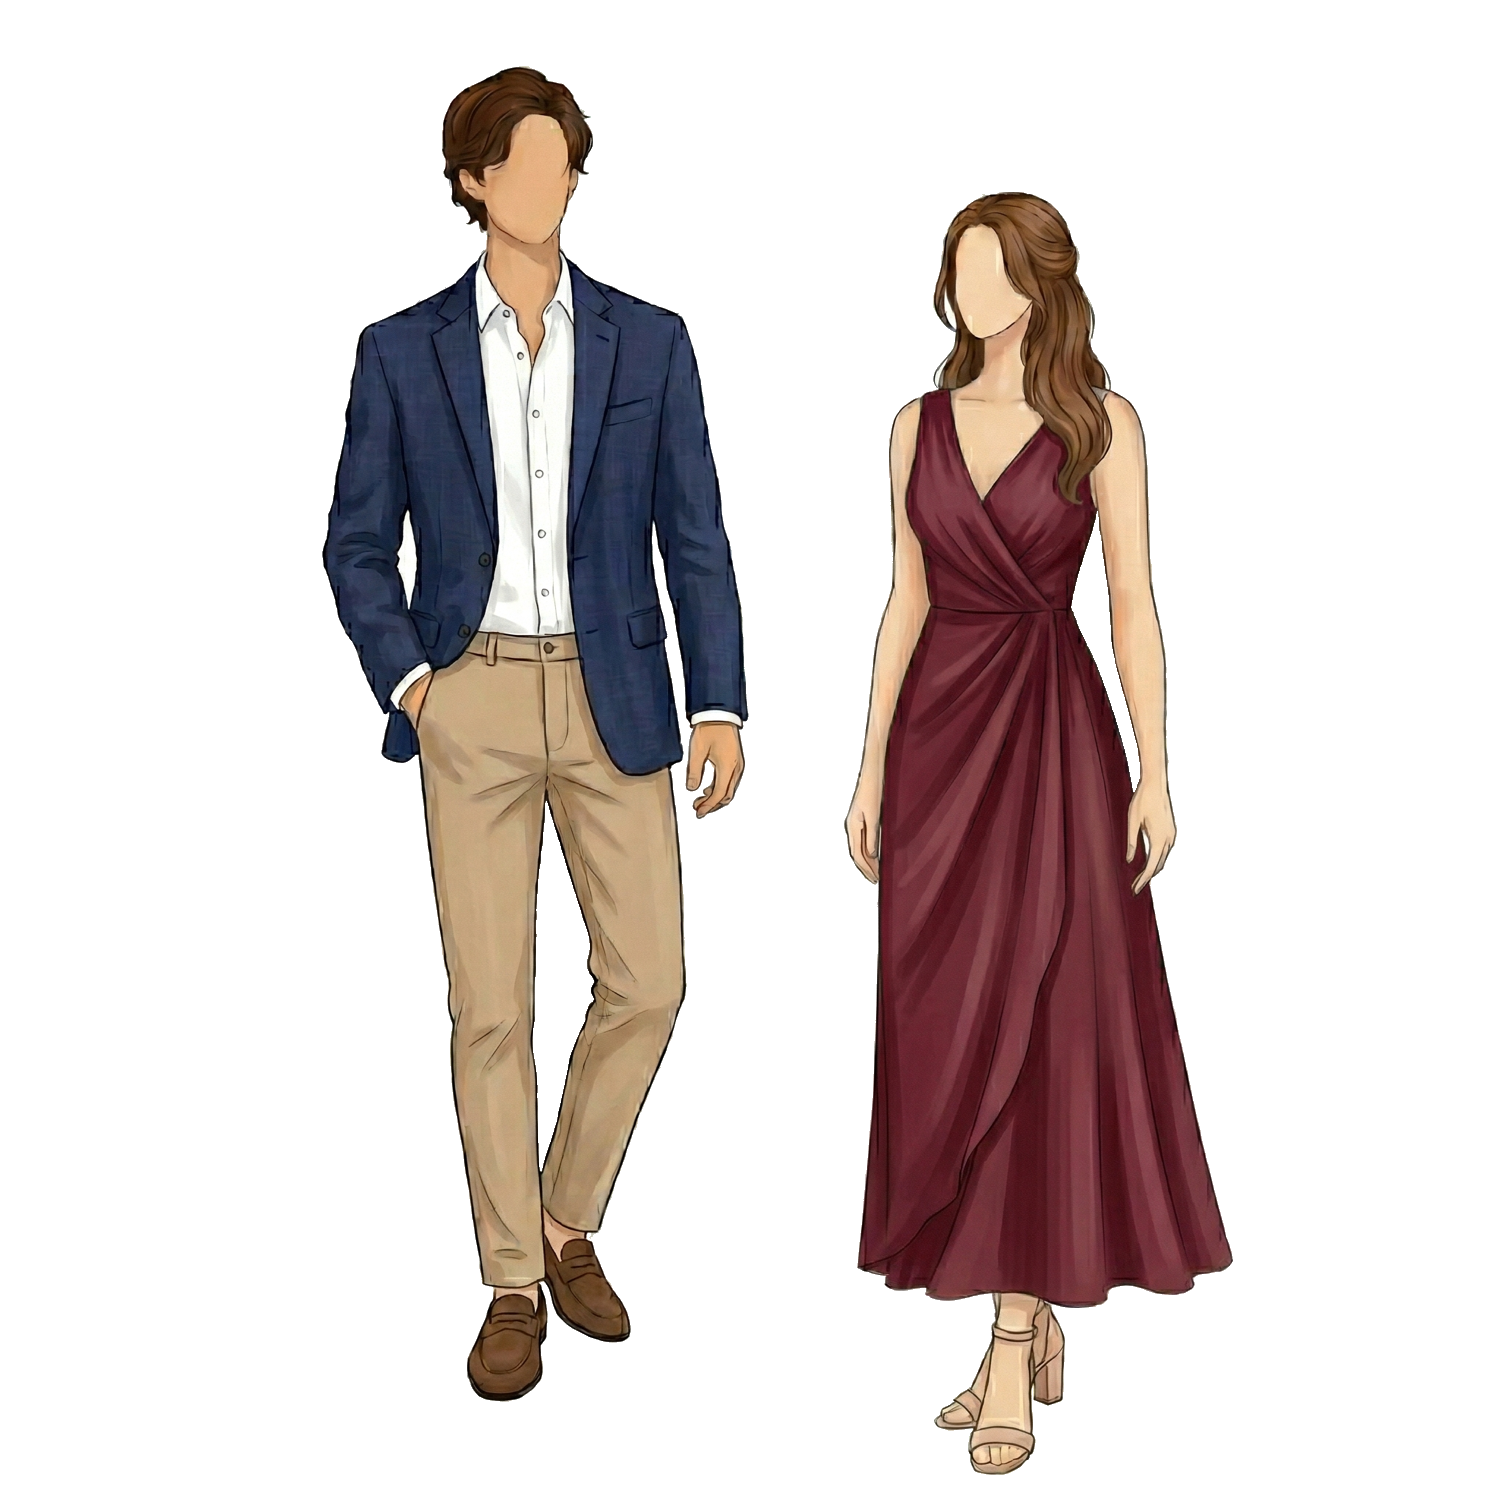
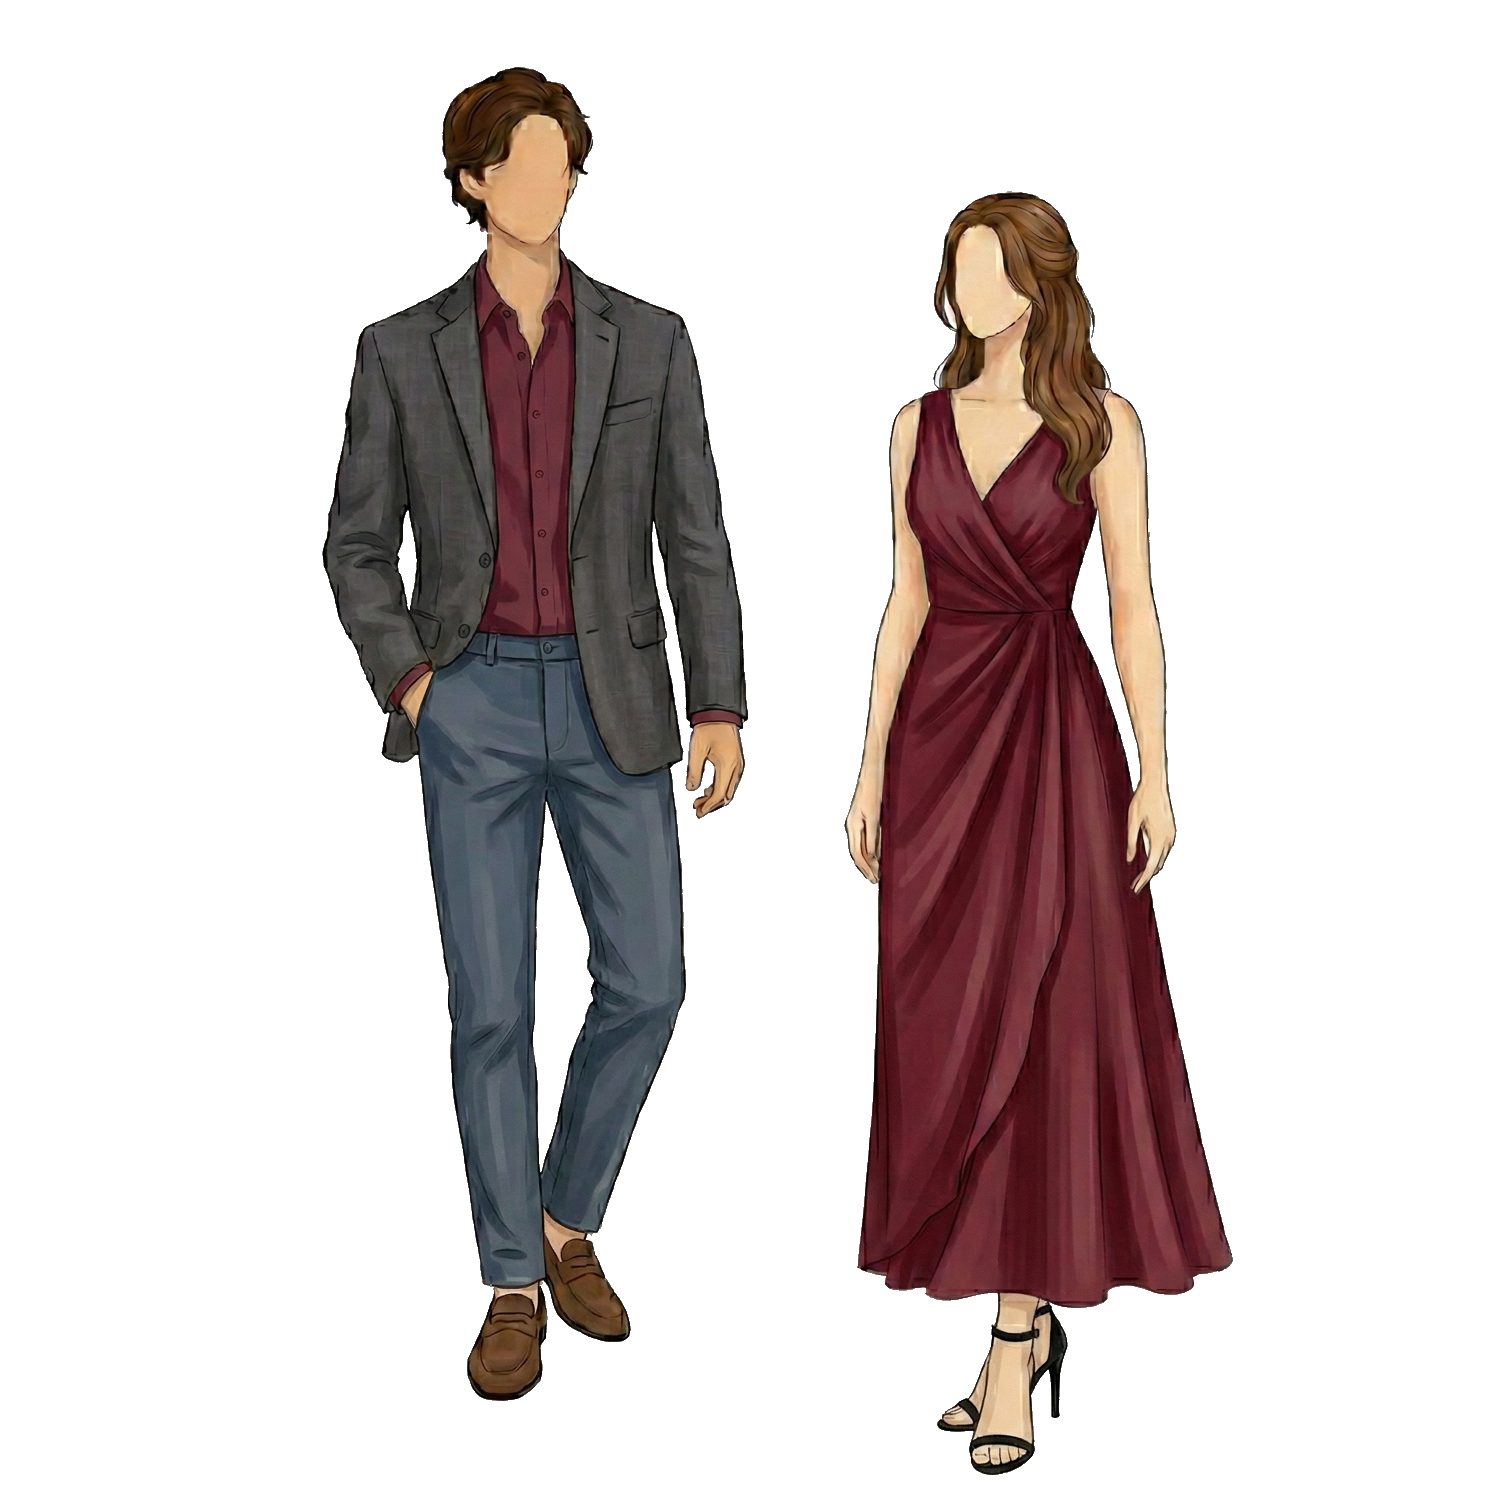
Update gallery visuals and dresscode info
Remove one gallery image, adjust hero background and typography, and expand dresscode details. Specifically: delete an image reference (fotos5/1.webp) from the gallery, swap the hero background from fotos5/flores.jpg to fotos5/1.webp, reduce .wedding-date font-size from 0.85rem to 0.7rem, update the dresscode text to list green, white and beige as reserved colors and add a "Ver más inspiración" Pinterest link/button. Binary assets (.DS_Store and vestimenta.PNG) were also updated.

diff --git a/index.html b/index.html
@@ -79,7 +79,6 @@
             <img src="fotos5/3.webp" alt="Cami & Sebas">
             <img src="fotos5/5.webp" alt="Cami & Sebas">
             <img src="fotos5/6.webp" alt="Cami & Sebas">
-            <img src="fotos5/1.webp" alt="Cami & Sebas">
             <img src="fotos5/7.webp" alt="Cami & Sebas">
             <img src="fotos5/8.webp" alt="Cami & Sebas">
             <img src="fotos5/9.webp" alt="Cami & Sebas">
@@ -149,7 +148,8 @@
             <div class="dresscode-image">
                 <img src="fotos5/vestimenta.PNG" alt="Inspiración Vestimenta" style="border-radius:12px;">
             </div>
-            <p class="color-reserve">El color reservado es el verde</p>
+            <p class="color-reserve">Los colores reservados son el verde, el blanco y el beige</p>
+            <a href="https://pin.it/1BUt5ygAy" target="_blank" rel="noopener noreferrer" class="btn-inspiracion">Ver más inspiración</a>
         </div>
     </section>
 

diff --git a/styles5.css b/styles5.css
@@ -316,7 +316,7 @@ h2.section-title {
 }
 
 .wedding-date {
-    font-size: 0.85rem;
+    font-size: 0.7rem;
     color: var(--texto);
     opacity: 0.4;
     letter-spacing: 3px;
@@ -753,7 +753,7 @@ h2.section-title {
     }
 
     .hero::before {
-        background: url('fotos5/flores.jpg') no-repeat center top / cover;
+        background: url('fotos5/1.webp') no-repeat center top / cover;
         height: 62%;
         bottom: auto;
         -webkit-mask-image: linear-gradient(to bottom, black 40%, transparent 100%);
